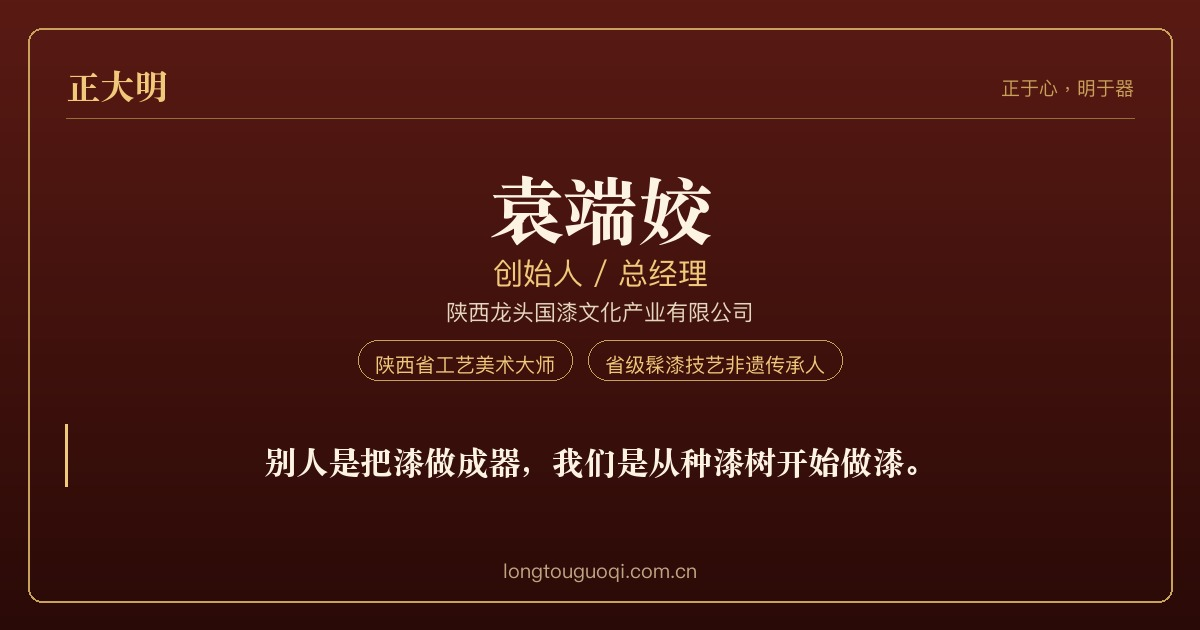
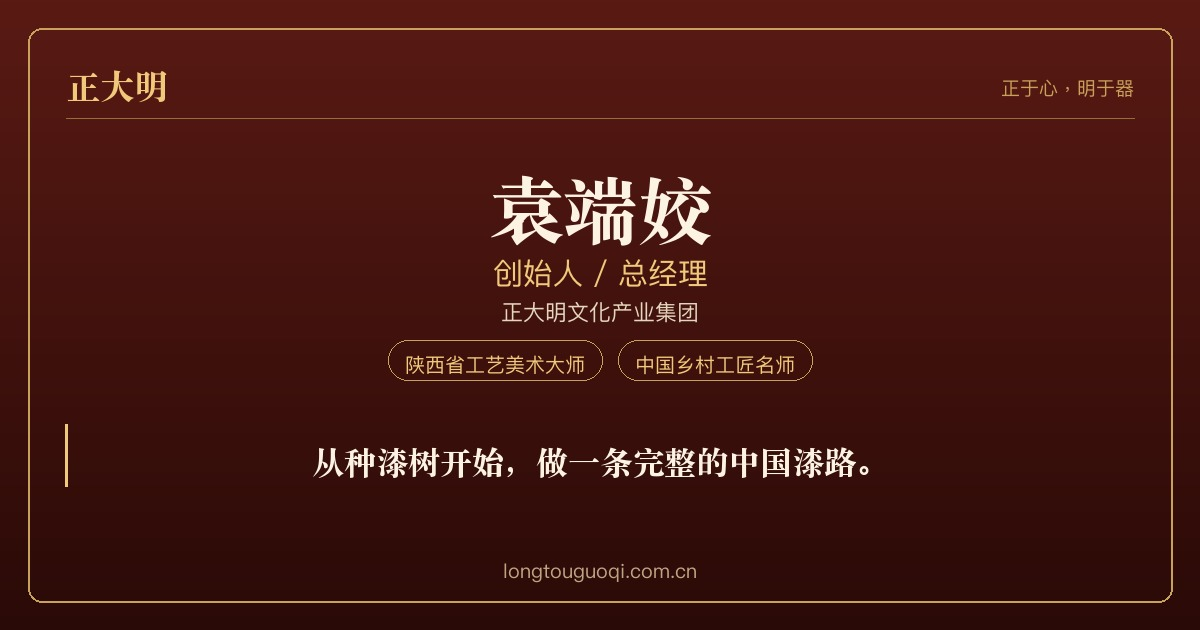
个人名片按反馈优化：头像放大、去掉公司全称、头衔改为陕西省工艺美术大师/中国乡村工匠名师优先、定位语重写为「从种漆树开始，做一条完整的中国漆路」、四大品牌可点击跳转品牌矩阵页、奖项按重量级排序、技艺专长精简至四项、联系方式补充高新区详细地址

Changed region(s): [[0.2158, 0.6937, 0.7708, 0.7841], [0.3083, 0.5429, 0.6783, 0.6032], [0.37, 0.4825, 0.6475, 0.5127]]

diff --git a/card-yuan-duanjiao.html b/card-yuan-duanjiao.html
@@ -4,17 +4,17 @@
   <meta charset="UTF-8">
   <meta name="viewport" content="width=device-width, initial-scale=1.0">
   <meta name="theme-color" content="#3d0f0b">
-  <meta name="description" content="袁端姣｜陕西龙头国漆文化产业有限公司创始人 / 总经理。陕西省工艺美术大师。别人是把漆做成器，我们是从种漆树开始做漆。">
-  <title>袁端姣｜陕西龙头国漆文化产业有限公司 创始人 / 总经理</title>
+  <meta name="description" content="袁端姣｜正大明 创始人 / 总经理。陕西省工艺美术大师。从种漆树开始，做一条完整的中国漆路。">
+  <title>袁端姣｜正大明 创始人 / 总经理</title>
   <meta property="og:type" content="website">
   <meta property="og:site_name" content="正大明">
-  <meta property="og:title" content="袁端姣｜陕西龙头国漆文化产业有限公司 创始人 / 总经理">
-  <meta property="og:description" content="别人是把漆做成器，我们是从种漆树开始做漆。">
+  <meta property="og:title" content="袁端姣｜正大明 创始人 / 总经理">
+  <meta property="og:description" content="从种漆树开始，做一条完整的中国漆路。">
   <meta property="og:url" content="https://www.longtouguoqi.com.cn/card-yuan-duanjiao.html">
   <meta property="og:image" content="https://www.longtouguoqi.com.cn/images/card-yuan-duanjiao-share.jpg">
   <meta name="twitter:card" content="summary_large_image">
-  <meta name="twitter:title" content="袁端姣｜陕西龙头国漆文化产业有限公司 创始人 / 总经理">
-  <meta name="twitter:description" content="别人是把漆做成器，我们是从种漆树开始做漆。">
+  <meta name="twitter:title" content="袁端姣｜正大明 创始人 / 总经理">
+  <meta name="twitter:description" content="从种漆树开始，做一条完整的中国漆路。">
   <meta name="twitter:image" content="https://www.longtouguoqi.com.cn/images/card-yuan-duanjiao-share.jpg">
   <link rel="preconnect" href="https://fonts.googleapis.com">
   <link rel="preconnect" href="https://fonts.gstatic.com" crossorigin>
@@ -46,13 +46,14 @@
 .card-brandbar .slogan { font-size: 11px; color: rgba(240,201,122,0.7); letter-spacing: 2px; }
 .card-hero { padding: 30px 26px 26px; text-align: center; }
 .card-avatar {
-  width: 108px; height: 108px; margin: 0 auto 18px; border-radius: 50%;
-  border: 1.5px solid rgba(240,201,122,0.75);
+  width: 168px; height: 168px; margin: 0 auto 20px; border-radius: 50%;
+  border: 2px solid rgba(240,201,122,0.8);
   background: radial-gradient(circle at 50% 35%, #7a231a 0%, #4a1410 100%);
   display: flex; align-items: center; justify-content: center;
-  font-family: 'Noto Serif SC', serif; font-size: 38px; font-weight: 700;
-  color: #F0C97A; letter-spacing: 3px;
+  overflow: hidden;
+  box-shadow: 0 10px 30px rgba(0,0,0,0.35);
 }
+.card-avatar-img { width: 100%; height: 100%; object-fit: cover; display: block; }
 .card-sheet h1 { font-family: 'Noto Serif SC', serif; font-size: 1.95rem; font-weight: 700; color: #FDF3E3; letter-spacing: 6px; margin-bottom: 8px; }
 .card-role { color: #F0C97A; font-size: 1.02rem; font-weight: 600; margin-bottom: 4px; letter-spacing: 1px; }
 .card-org { color: rgba(253,243,227,0.72); font-size: 0.84rem; margin-bottom: 2px; }
@@ -86,9 +87,16 @@
 .card-flow span { font-size: 0.8rem; color: #FDF3E3; background: rgba(240,201,122,0.10); border: 1px solid rgba(240,201,122,0.25); border-radius: 6px; padding: 6px 10px; }
 .card-flow i { font-style: normal; color: rgba(240,201,122,0.75); font-size: 0.8rem; }
 .card-brands { display: grid; grid-template-columns: repeat(2, minmax(0,1fr)); gap: 10px; }
-.card-brand { background: rgba(0,0,0,0.2); border: 1px solid rgba(240,201,122,0.2); border-radius: 10px; padding: 12px 14px; }
+.card-brand {
+  position: relative; display: block; text-decoration: none;
+  background: rgba(0,0,0,0.2); border: 1px solid rgba(240,201,122,0.2);
+  border-radius: 10px; padding: 12px 30px 12px 14px;
+  transition: background .2s ease, border-color .2s ease, transform .2s ease;
+}
+a.card-brand:hover { background: rgba(0,0,0,0.34); border-color: rgba(240,201,122,0.55); transform: translateY(-2px); }
 .card-brand b { display: block; font-family: 'Noto Serif SC', serif; font-size: 0.92rem; color: #F0C97A; font-weight: 700; margin-bottom: 4px; letter-spacing: 1px; }
 .card-brand em { font-style: normal; font-size: 0.76rem; color: rgba(253,243,227,0.7); line-height: 1.6; }
+.card-brand i { position: absolute; right: 12px; top: 50%; transform: translateY(-50%); font-style: normal; font-size: 0.9rem; color: rgba(240,201,122,0.75); }
 .card-stats { display: grid; grid-template-columns: repeat(3, minmax(0,1fr)); gap: 10px; padding: 6px 26px 0; }
 .card-stat { background: rgba(0,0,0,0.22); border: 1px solid rgba(240,201,122,0.18); border-radius: 10px; padding: 14px 6px; text-align: center; }
 .card-stat b { display: block; font-family: 'Noto Serif SC', serif; font-size: 1.35rem; color: #F0C97A; font-weight: 700; }
@@ -115,7 +123,7 @@
 @media (max-width: 480px) {
   .card-main { padding: 4px 12px 48px; }
   .card-sheet h1 { font-size: 1.7rem; letter-spacing: 4px; }
-  .card-avatar { width: 92px; height: 92px; font-size: 32px; }
+  .card-avatar { width: 138px; height: 138px; }
   .card-brands { grid-template-columns: 1fr; }
   .card-stats { grid-template-columns: repeat(3, minmax(0,1fr)); gap: 6px; }
   .card-stat b { font-size: 1.15rem; }
@@ -140,21 +148,20 @@
         <div class="card-avatar"><img src="images/card-yuan-duanjiao-avatar.jpg" alt="袁端姣" class="card-avatar-img"></div>
         <h1>袁端姣</h1>
         <p class="card-role">创始人 / 总经理</p>
-        <p class="card-org">陕西龙头国漆文化产业有限公司</p>
-        <p class="card-org-sub">正大明文化产业集团 · 规上企业</p>
+        
+        <p class="card-org-sub">西安交通大学艺术设计硕士</p>
         <div class="card-chiprow"><span>陕西省工艺美术大师</span>
+          <span>中国乡村工匠名师</span>
           <span>省级髹漆技艺非遗传承人</span>
-          <span>高级工艺美术品设计师</span>
-          <span>陕西省乡村工匠名师</span>
-          <span>中国乡村工匠名师</span></div>
+          <span>高级工艺美术品设计师</span></div>
       </div>
 
-      <blockquote class="card-quote">别人是把漆做成器，我们是从种漆树开始做漆。</blockquote>
+      <blockquote class="card-quote">从种漆树开始，做一条完整的中国漆路。</blockquote>
 
             <section class="card-block">
         <h2>个人简介</h2>
-        <p>袁端姣，西安交通大学艺术设计硕士，2014 年毕业后返乡创业，回到秦巴山区的家乡陕西安康平利，接续正大明自 1925 年起的百年漆行血脉，创办陕西龙头国漆文化产业有限公司并任总经理。</p>
-        <p>她以天然生漆为核心、以非遗技艺为灵魂、以东方生活美学为方向，从种漆树做起，先后建立牛王生漆漆树种植基地、平利县牛王生漆研究所、牛王生漆博物馆与西安漆器展厅，并创办西安漆器汉唐文化产业有限公司，让一门古老手艺长成一条完整的产业。</p>
+        <p>袁端姣，西安交通大学艺术设计硕士，出身陕西安康平利漆业世家，接续正大明自 1925 年起的百年漆行血脉。2014 年硕士毕业后返乡创业，从种漆树做起，把一门古老手艺做成一条完整的产业。</p>
+        <p>她深耕秦巴髹漆十余年，建立牛王生漆漆树种植基地、平利县牛王生漆研究所、牛王生漆博物馆与西安漆器展厅；参与制定两项漆树行业标准，作品获德国 iF 设计奖、中国工艺美术百鹤奖等国内外奖项。</p>
       </section>
 
       <section class="card-block">
@@ -176,10 +183,10 @@
       <section class="card-block">
         <h2>四大品牌</h2>
         <div class="card-brands">
-          <div class="card-brand"><b>正大明漆</b><em>高端漆器与大师手作</em></div>
-          <div class="card-brand"><b>龙头国漆</b><em>生漆与漆材料全产业链</em></div>
-          <div class="card-brand"><b>牛王国漆</b><em>非遗文化与礼赠</em></div>
-          <div class="card-brand"><b>岁时记</b><em>东方生活美学文创</em></div>
+          <a class="card-brand" href="brand-zhengdaming.html"><b>正大明漆</b><em>高端漆器与大师手作</em><i>→</i></a>
+          <a class="card-brand" href="brand-longtou.html"><b>龙头国漆</b><em>生漆与漆材料全产业链</em><i>→</i></a>
+          <a class="card-brand" href="brand-niuwang.html"><b>牛王国漆</b><em>非遗文化与礼赠</em><i>→</i></a>
+          <a class="card-brand" href="brand-suishiji.html"><b>岁时记</b><em>东方生活美学文创</em><i>→</i></a>
         </div>
         <p class="card-note">覆盖「材料—器物—生活」全场景，合作伙伴遍布全球。</p>
       </section>
@@ -193,14 +200,14 @@
       <section class="card-block">
         <h2>关键经历</h2>
         <ul class="card-timeline">
-          <li><span class="yr">2014</span><span class="ev">西安交通大学硕士毕业，返乡创办陕西龙头国漆文化产业有限公司，任总经理</span></li>
+          <li><span class="yr">2014</span><span class="ev">西安交通大学硕士毕业，返乡创业，接续正大明百年漆行血脉</span></li>
           <li><span class="yr">2017</span><span class="ev">建立牛王生漆漆树种植基地，辐射面积约 5000 亩</span></li>
           <li><span class="yr">2019</span><span class="ev">创立平利县牛王生漆研究所并任所长；同年被评为安康市牛王生漆髹漆技艺非遗传承人</span></li>
           <li><span class="yr">2021</span><span class="ev">被评为陕西省牛王生漆髹漆技艺非遗传承人；安康市「金州工匠」</span></li>
           <li><span class="yr">2022</span><span class="ev">创办西安漆器汉唐文化产业有限公司，任总经理</span></li>
           <li><span class="yr">2023</span><span class="ev">创办牛王生漆博物馆、西安漆器展厅；被评为陕西省工艺美术大师；个人工作室获「陕西省省级非遗工坊」</span></li>
-          <li><span class="yr">2024</span><span class="ev">获陕西省乡村工匠名师称号</span></li>
-          <li><span class="yr">2025</span><span class="ev">获中国乡村工匠名师称号</span></li>
+          <li><span class="yr">2024</span><span class="ev">获中国乡村工匠名师称号</span></li>
+          <li><span class="yr">2025</span><span class="ev">作品获德国 iF 设计奖；获陕西省乡村工匠名师称号</span></li>
         </ul>
       </section>
 
@@ -217,14 +224,14 @@
       <section class="card-block">
         <h2>代表作品与奖项</h2>
         <ul class="card-list">
+          <li>《Magic O2O 模块化眼镜》获德国 iF 设计奖</li>
+          <li>《云起见龙骧》获中国工艺美术百鹤奖新锐奖</li>
           <li>《汉唐》获第十九届中国（深圳）国际文化产业博览交易会金奖</li>
+          <li>「闭月羞花」系列获中华非物质文化遗产传承人薪传奖优秀奖</li>
           <li>《霞光》获陕西省工艺美术精品汇报展金奖</li>
           <li>《梦幻》获陕西省「传世珍品」称号</li>
-          <li>《云起见龙骧》获中国工艺美术百鹤奖新锐奖</li>
-          <li>《Magic O2O 模块化眼镜》获德国 iF 设计奖</li>
-          <li>《新生》被安康市博物馆收藏；《晨钟暮鼓》系列茶盘被安康市群艺馆收藏</li>
-          <li>「闭月羞花」系列获中华非物质文化遗产传承人薪传奖优秀奖</li>
           <li>「骊山杯」漆艺文创设计大赛一等奖</li>
+          <li>《新生》被安康市博物馆收藏；《晨钟暮鼓》系列茶盘被安康市群艺馆收藏</li>
         </ul>
       </section>
 
@@ -234,9 +241,6 @@
           <span>彩色漆绘制</span>
           <span>变涂</span>
           <span>描金</span>
-          <span>起纹</span>
-          <span>堆漆</span>
-          <span>螺钿</span>
           <span>漂漆水影画</span>
         </div>
       </section>
@@ -244,9 +248,8 @@
       <section class="card-block">
         <h2>联系方式</h2>
         <ul class="card-info">
-          <li><label>公司</label><span>陕西龙头国漆文化产业有限公司</span></li>
           <li><label>电话</label><a href="tel:15691979501">156-9197-9501</a></li>
-          <li><label>地址</label><span>陕西省西安市</span></li>
+          <li><label>地址</label><span>陕西省西安市高新区唐延路银河新坐标A座1707</span></li>
           <li><label>官网</label><a href="https://www.longtouguoqi.com.cn">longtouguoqi.com.cn</a></li>
         </ul>
         <div class="card-actions">

diff --git a/card-yang-shixin.html b/card-yang-shixin.html
@@ -4,16 +4,16 @@
   <meta charset="UTF-8">
   <meta name="viewport" content="width=device-width, initial-scale=1.0">
   <meta name="theme-color" content="#3d0f0b">
-  <meta name="description" content="杨世鑫｜陕西龙头国漆文化产业有限公司董事长。清华大学工商管理硕士。以产业化的方式守护手艺，以市场化的语言讲述传统。">
-  <title>杨世鑫｜陕西龙头国漆文化产业有限公司 董事长</title>
+  <meta name="description" content="杨世鑫｜正大明 董事长。清华大学工商管理硕士。以产业化的方式守护手艺，以市场化的语言讲述传统。">
+  <title>杨世鑫｜正大明 董事长</title>
   <meta property="og:type" content="website">
   <meta property="og:site_name" content="正大明">
-  <meta property="og:title" content="杨世鑫｜陕西龙头国漆文化产业有限公司 董事长">
+  <meta property="og:title" content="杨世鑫｜正大明 董事长">
   <meta property="og:description" content="以产业化的方式守护手艺，以市场化的语言讲述传统。">
   <meta property="og:url" content="https://www.longtouguoqi.com.cn/card-yang-shixin.html">
   <meta property="og:image" content="https://www.longtouguoqi.com.cn/images/card-yang-shixin-share.jpg">
   <meta name="twitter:card" content="summary_large_image">
-  <meta name="twitter:title" content="杨世鑫｜陕西龙头国漆文化产业有限公司 董事长">
+  <meta name="twitter:title" content="杨世鑫｜正大明 董事长">
   <meta name="twitter:description" content="以产业化的方式守护手艺，以市场化的语言讲述传统。">
   <meta name="twitter:image" content="https://www.longtouguoqi.com.cn/images/card-yang-shixin-share.jpg">
   <link rel="preconnect" href="https://fonts.googleapis.com">
@@ -46,13 +46,14 @@
 .card-brandbar .slogan { font-size: 11px; color: rgba(240,201,122,0.7); letter-spacing: 2px; }
 .card-hero { padding: 30px 26px 26px; text-align: center; }
 .card-avatar {
-  width: 108px; height: 108px; margin: 0 auto 18px; border-radius: 50%;
-  border: 1.5px solid rgba(240,201,122,0.75);
+  width: 168px; height: 168px; margin: 0 auto 20px; border-radius: 50%;
+  border: 2px solid rgba(240,201,122,0.8);
   background: radial-gradient(circle at 50% 35%, #7a231a 0%, #4a1410 100%);
   display: flex; align-items: center; justify-content: center;
-  font-family: 'Noto Serif SC', serif; font-size: 38px; font-weight: 700;
-  color: #F0C97A; letter-spacing: 3px;
+  overflow: hidden;
+  box-shadow: 0 10px 30px rgba(0,0,0,0.35);
 }
+.card-avatar-img { width: 100%; height: 100%; object-fit: cover; display: block; }
 .card-sheet h1 { font-family: 'Noto Serif SC', serif; font-size: 1.95rem; font-weight: 700; color: #FDF3E3; letter-spacing: 6px; margin-bottom: 8px; }
 .card-role { color: #F0C97A; font-size: 1.02rem; font-weight: 600; margin-bottom: 4px; letter-spacing: 1px; }
 .card-org { color: rgba(253,243,227,0.72); font-size: 0.84rem; margin-bottom: 2px; }
@@ -86,9 +87,16 @@
 .card-flow span { font-size: 0.8rem; color: #FDF3E3; background: rgba(240,201,122,0.10); border: 1px solid rgba(240,201,122,0.25); border-radius: 6px; padding: 6px 10px; }
 .card-flow i { font-style: normal; color: rgba(240,201,122,0.75); font-size: 0.8rem; }
 .card-brands { display: grid; grid-template-columns: repeat(2, minmax(0,1fr)); gap: 10px; }
-.card-brand { background: rgba(0,0,0,0.2); border: 1px solid rgba(240,201,122,0.2); border-radius: 10px; padding: 12px 14px; }
+.card-brand {
+  position: relative; display: block; text-decoration: none;
+  background: rgba(0,0,0,0.2); border: 1px solid rgba(240,201,122,0.2);
+  border-radius: 10px; padding: 12px 30px 12px 14px;
+  transition: background .2s ease, border-color .2s ease, transform .2s ease;
+}
+a.card-brand:hover { background: rgba(0,0,0,0.34); border-color: rgba(240,201,122,0.55); transform: translateY(-2px); }
 .card-brand b { display: block; font-family: 'Noto Serif SC', serif; font-size: 0.92rem; color: #F0C97A; font-weight: 700; margin-bottom: 4px; letter-spacing: 1px; }
 .card-brand em { font-style: normal; font-size: 0.76rem; color: rgba(253,243,227,0.7); line-height: 1.6; }
+.card-brand i { position: absolute; right: 12px; top: 50%; transform: translateY(-50%); font-style: normal; font-size: 0.9rem; color: rgba(240,201,122,0.75); }
 .card-stats { display: grid; grid-template-columns: repeat(3, minmax(0,1fr)); gap: 10px; padding: 6px 26px 0; }
 .card-stat { background: rgba(0,0,0,0.22); border: 1px solid rgba(240,201,122,0.18); border-radius: 10px; padding: 14px 6px; text-align: center; }
 .card-stat b { display: block; font-family: 'Noto Serif SC', serif; font-size: 1.35rem; color: #F0C97A; font-weight: 700; }
@@ -115,7 +123,7 @@
 @media (max-width: 480px) {
   .card-main { padding: 4px 12px 48px; }
   .card-sheet h1 { font-size: 1.7rem; letter-spacing: 4px; }
-  .card-avatar { width: 92px; height: 92px; font-size: 32px; }
+  .card-avatar { width: 138px; height: 138px; }
   .card-brands { grid-template-columns: 1fr; }
   .card-stats { grid-template-columns: repeat(3, minmax(0,1fr)); gap: 6px; }
   .card-stat b { font-size: 1.15rem; }
@@ -140,7 +148,7 @@
         <div class="card-avatar"><img src="images/card-yang-shixin-avatar.jpg" alt="杨世鑫" class="card-avatar-img"></div>
         <h1>杨世鑫</h1>
         <p class="card-role">董事长</p>
-        <p class="card-org">陕西龙头国漆文化产业有限公司</p>
+        
         <p class="card-org-sub">清华大学工商管理硕士 · 高级工艺美术师</p>
         <div class="card-chiprow"><span>清华大学工商管理硕士</span>
           <span>高级工艺美术师</span>
@@ -151,7 +159,7 @@
 
             <section class="card-block">
         <h2>个人简介</h2>
-        <p>杨世鑫，清华大学工商管理硕士，高级工艺美术师，现任陕西龙头国漆文化产业有限公司董事长，长期致力于中国传统漆艺的当代转化与非遗产业的现代化实践。</p>
+        <p>杨世鑫，清华大学工商管理硕士，高级工艺美术师，现任正大明文化产业集团董事长，长期致力于中国传统漆艺的当代转化与非遗产业的现代化实践。</p>
         <p>他以系统的管理学科训练为底，以对大漆工艺的深刻理解与敬畏为魂，将战略管理、品牌运营与产业思维注入一门古老手艺，推动企业从传统漆艺走向集漆树种植、生漆精制、漆器研发、文创衍生与非遗传习于一体的全产业链形态。</p>
       </section>
 
@@ -174,10 +182,10 @@
       <section class="card-block">
         <h2>四大品牌</h2>
         <div class="card-brands">
-          <div class="card-brand"><b>正大明漆</b><em>高端漆器与大师手作</em></div>
-          <div class="card-brand"><b>龙头国漆</b><em>生漆与漆材料全产业链</em></div>
-          <div class="card-brand"><b>牛王国漆</b><em>非遗文化与礼赠</em></div>
-          <div class="card-brand"><b>岁时记</b><em>东方生活美学文创</em></div>
+          <a class="card-brand" href="brand-zhengdaming.html"><b>正大明漆</b><em>高端漆器与大师手作</em><i>→</i></a>
+          <a class="card-brand" href="brand-longtou.html"><b>龙头国漆</b><em>生漆与漆材料全产业链</em><i>→</i></a>
+          <a class="card-brand" href="brand-niuwang.html"><b>牛王国漆</b><em>非遗文化与礼赠</em><i>→</i></a>
+          <a class="card-brand" href="brand-suishiji.html"><b>岁时记</b><em>东方生活美学文创</em><i>→</i></a>
         </div>
         <p class="card-note">覆盖「材料—器物—生活」全场景，合作伙伴遍布全球。</p>
       </section>
@@ -209,9 +217,8 @@
       <section class="card-block">
         <h2>联系方式</h2>
         <ul class="card-info">
-          <li><label>公司</label><span>陕西龙头国漆文化产业有限公司</span></li>
           <li><label>电话</label><a href="tel:15191893738">151-9189-3738</a></li>
-          <li><label>地址</label><span>陕西省西安市</span></li>
+          <li><label>地址</label><span>陕西省西安市高新区唐延路银河新坐标A座1707</span></li>
           <li><label>官网</label><a href="https://www.longtouguoqi.com.cn">longtouguoqi.com.cn</a></li>
         </ul>
         <div class="card-actions">

diff --git a/ja/cards.html b/ja/cards.html
@@ -200,7 +200,7 @@
             <div class="person-avatar-mini"><img src="../images/card-yuan-duanjiao-avatar.jpg" alt="袁端姣"></div>
             <h3>袁端姣</h3>
             <p>創業者 / ゼネラルマネージャー</p>
-            <p class="person-tags">陕西省工芸美術大師 · 省級髹漆技術無形文化遺産伝承者</p>
+            <p class="person-tags">陕西省工芸美術大師 · 中国郷村工匠名師</p>
             <span class="link">詳細を見る →</span>
           </a>
           <a href="../card-yang-shixin.html" class="person-card person-card--dark">

diff --git a/ko/cards.html b/ko/cards.html
@@ -200,7 +200,7 @@
             <div class="person-avatar-mini"><img src="../images/card-yuan-duanjiao-avatar.jpg" alt="袁端姣"></div>
             <h3>袁端姣</h3>
             <p>창업자 / 총경리</p>
-            <p class="person-tags">陕西省 공예미술대사 · 성급 칠기 무형문화유산 전승자</p>
+            <p class="person-tags">陕西省 공예미술대사 · 중국향촌공장명사</p>
             <span class="link">상세 보기 →</span>
           </a>
           <a href="../card-yang-shixin.html" class="person-card person-card--dark">

diff --git a/en/cards.html b/en/cards.html
@@ -200,7 +200,7 @@
             <div class="person-avatar-mini"><img src="../images/card-yuan-duanjiao-avatar.jpg" alt="袁端姣"></div>
             <h3>袁端姣</h3>
             <p>Founder / General Manager</p>
-            <p class="person-tags">Master of Arts and Crafts · Provincial ICH Lacquer Inheritor</p>
+            <p class="person-tags">Master of Arts and Crafts · National Master of Rural Craftsmen</p>
             <span class="link">View Profile →</span>
           </a>
           <a href="../card-yang-shixin.html" class="person-card person-card--dark">

diff --git a/cards.html b/cards.html
@@ -200,7 +200,7 @@
             <div class="person-avatar-mini"><img src="images/card-yuan-duanjiao-avatar.jpg" alt="袁端姣"></div>
             <h3>袁端姣</h3>
             <p>创始人 / 总经理</p>
-            <p class="person-tags">陕西省工艺美术大师 · 省级髹漆技艺非遗传承人</p>
+            <p class="person-tags">陕西省工艺美术大师 · 中国乡村工匠名师</p>
             <span class="link">查看详情 →</span>
           </a>
           <a href="card-yang-shixin.html" class="person-card person-card--dark">

diff --git a/css/style.css b/css/style.css
@@ -2294,7 +2294,7 @@ body .page-banner { margin-top: 118px; }
   border-color: rgba(140,43,31,0.25);
 }
 .person-avatar-mini {
-  width: 72px; height: 72px; border-radius: 50%;
+  width: 96px; height: 96px; border-radius: 50%;
   background: var(--primary); color: var(--gold);
   display: flex; align-items: center; justify-content: center;
   font-size: 32px; font-weight: 700;
